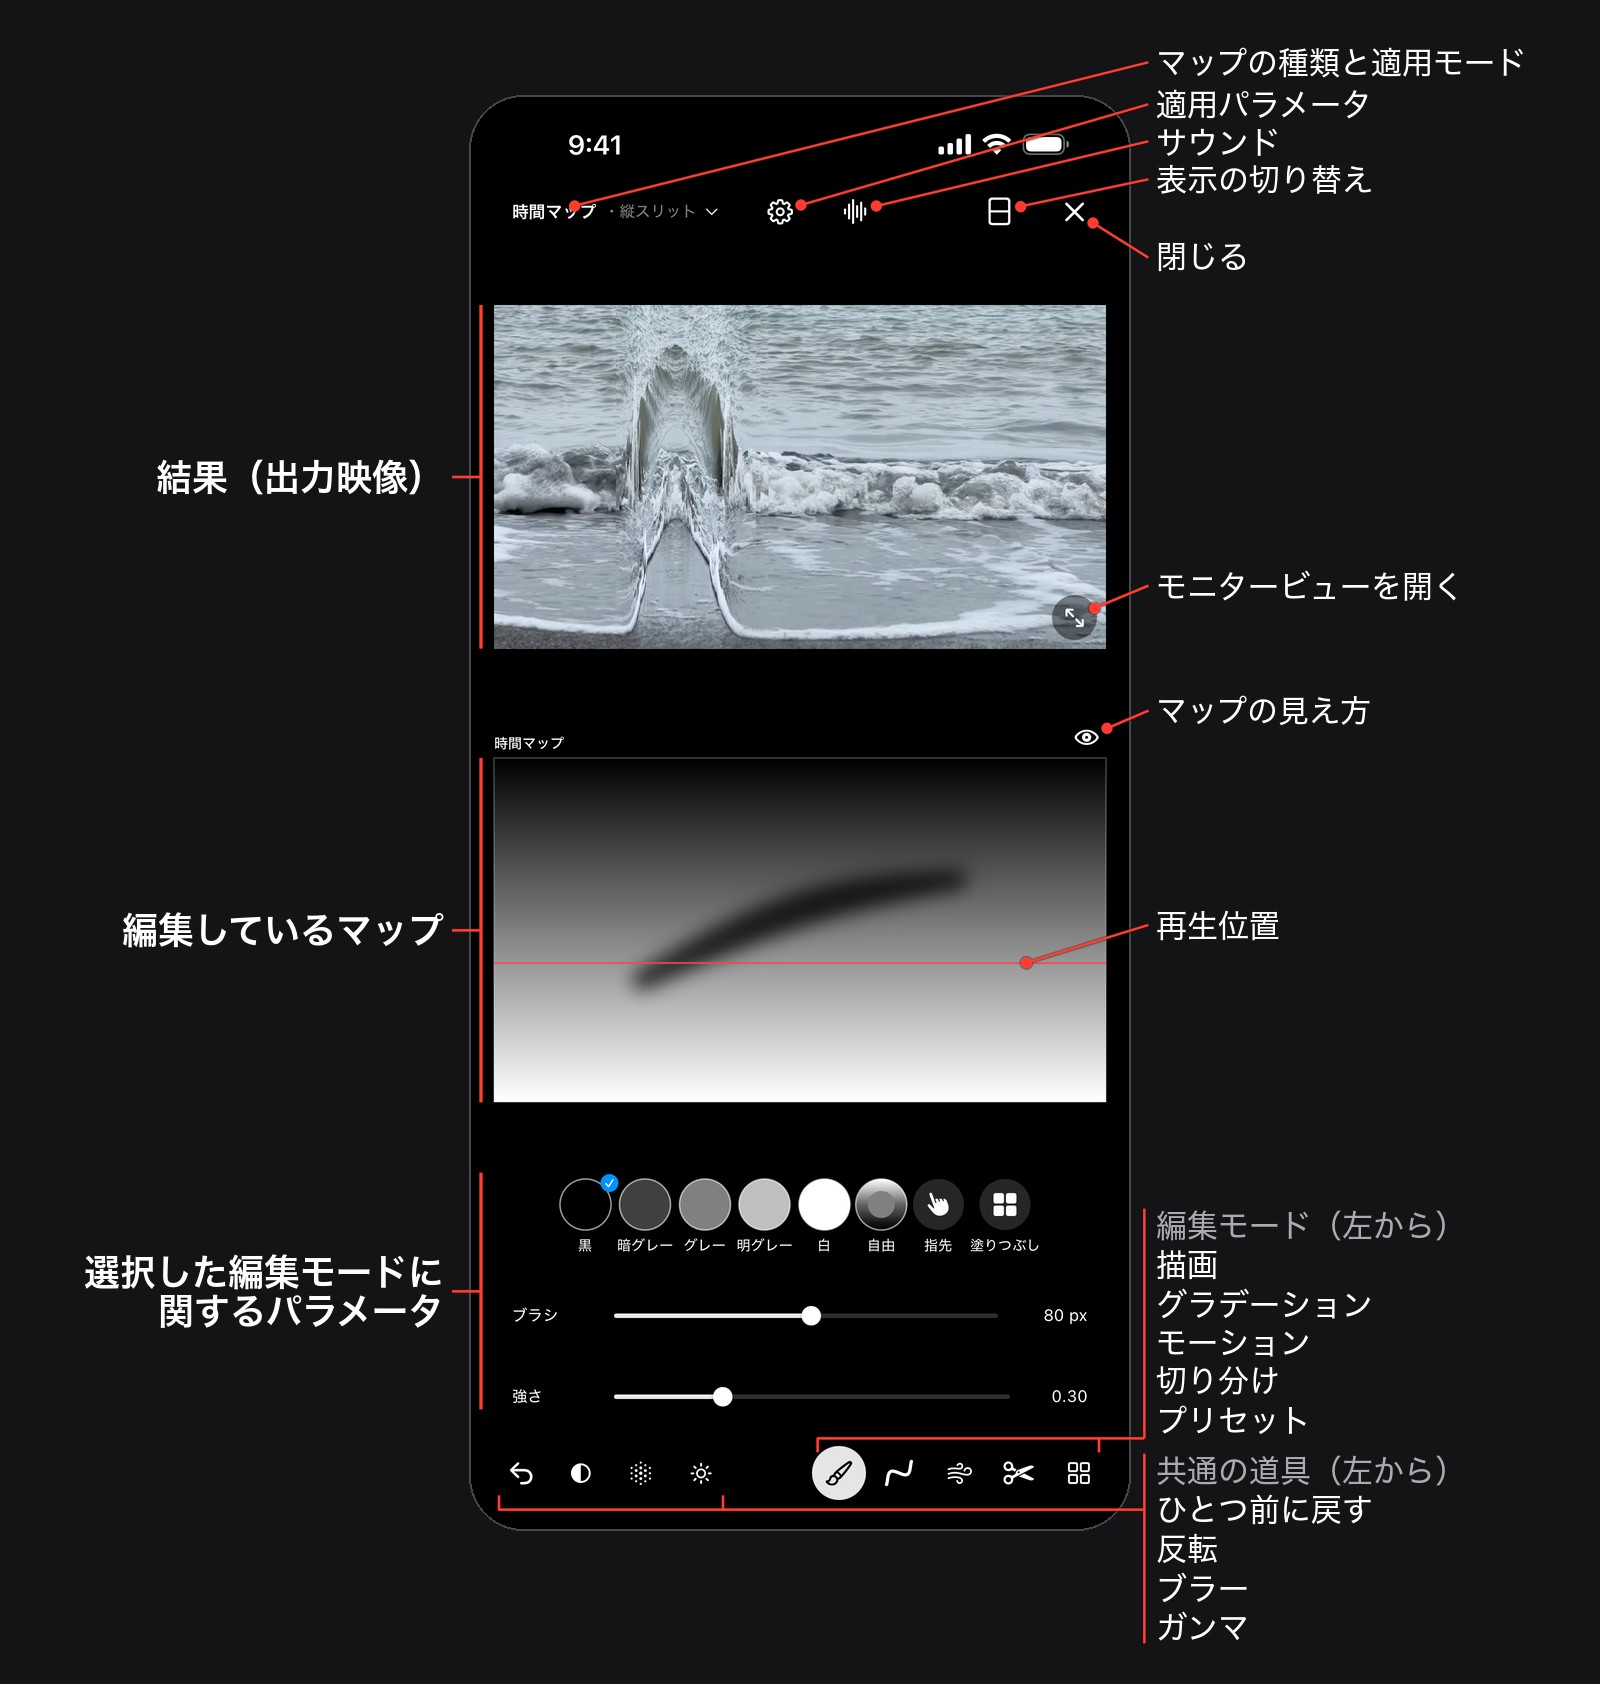
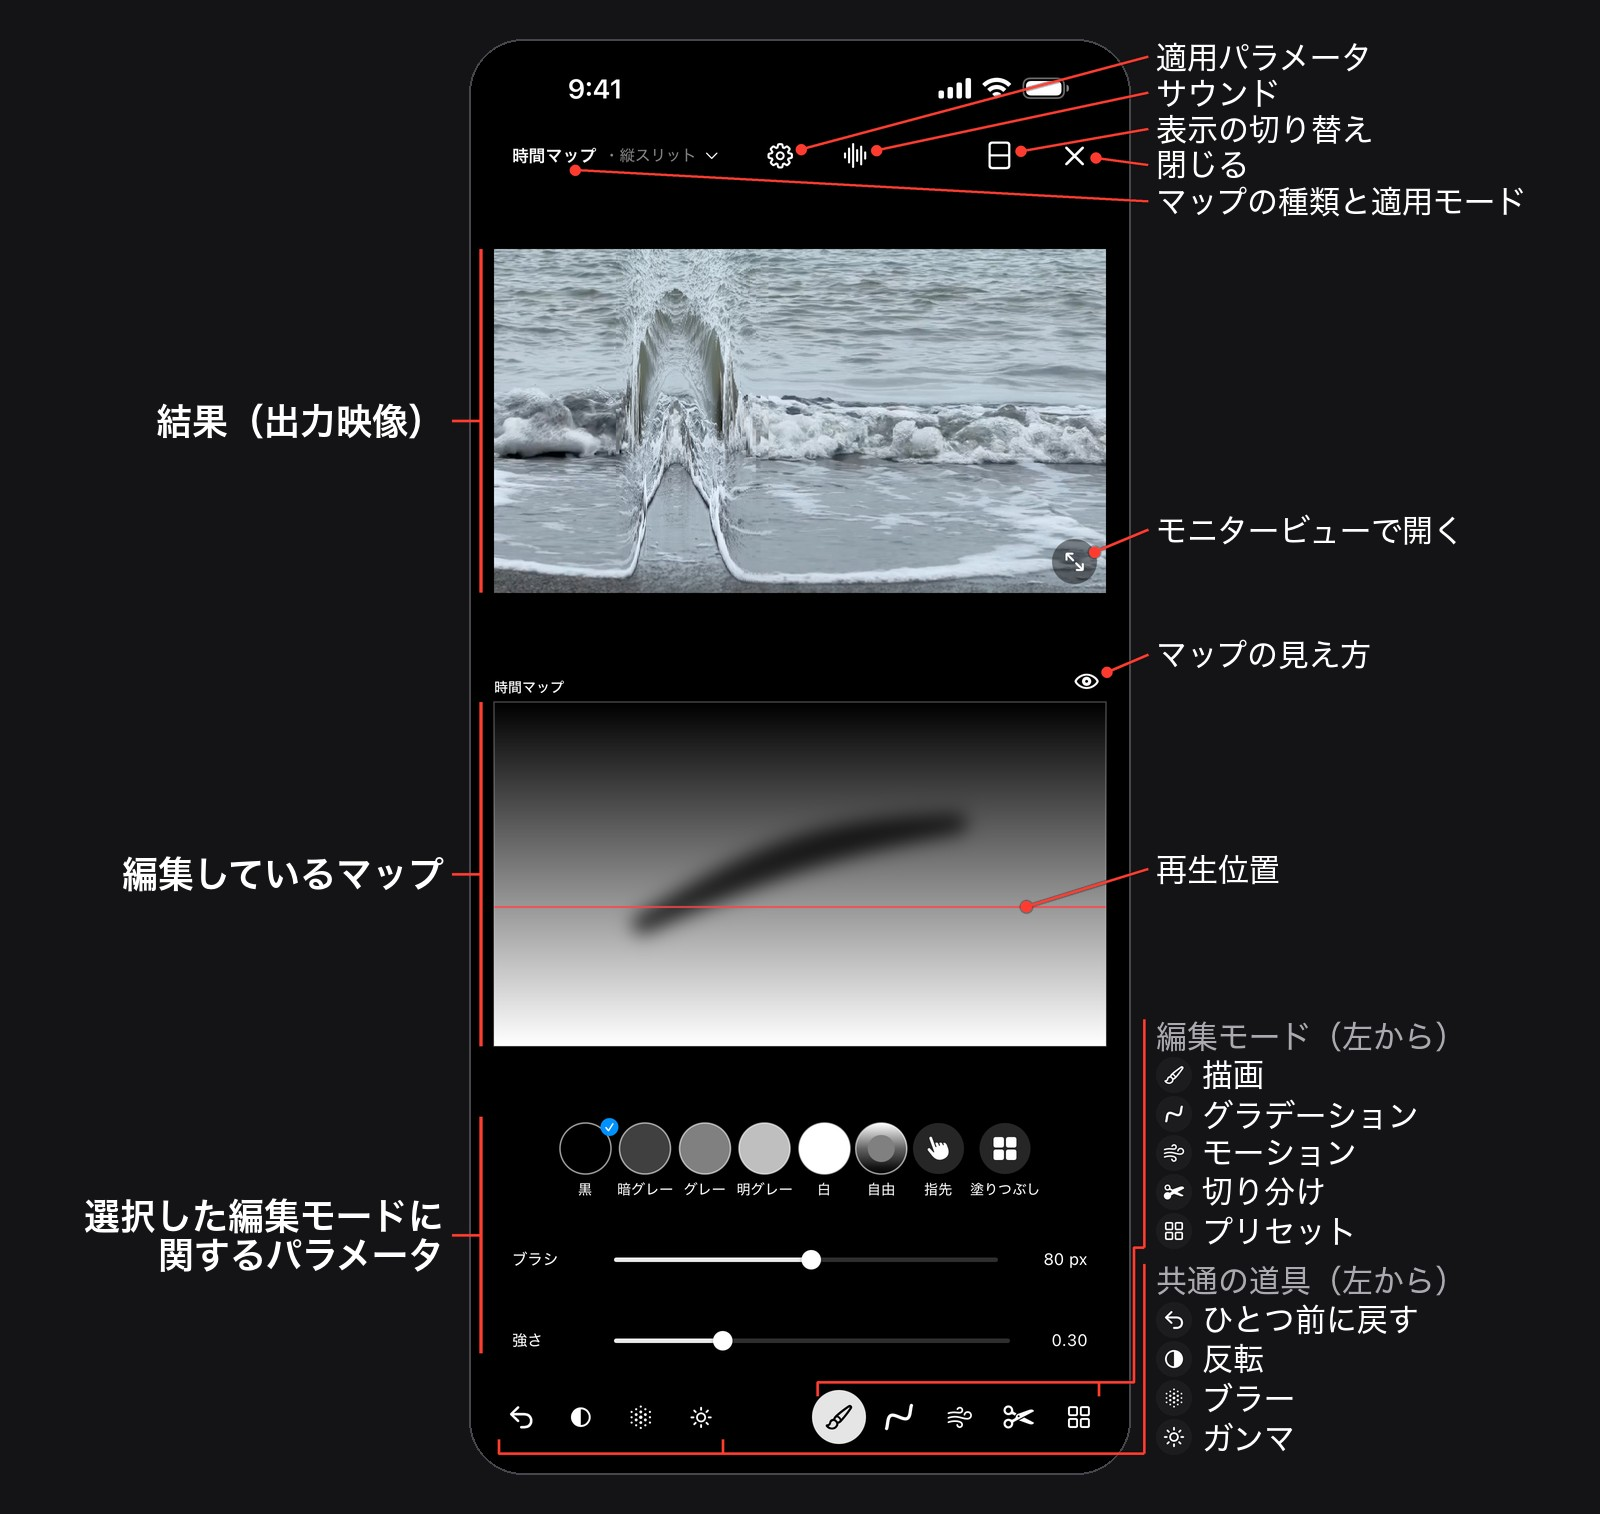
案内図を作り直す: 左に再生スライダーとメニューも、文字は iPhone の高さの中に、一覧の行頭にアイコン、モニタービューは 5 つすべてを並べる（配信後に公開）

diff --git a/index.html b/index.html
@@ -108,7 +108,7 @@
   
 
 
-<figure class="guide"><a href="shots/guide/monitor_ja.jpg"><img src="shots/guide/monitor_ja.jpg" alt="モニタービューの各部の名前を赤い線で示した図。出力映像、時間マップ、立体グラフを並べている" loading="lazy"></a><figcaption>モニタービュー（押すと大きく開きます）</figcaption></figure>
+<figure class="guide"><a href="shots/guide/monitor_ja.jpg"><img src="shots/guide/monitor_ja.jpg" alt="モニタービューのボタンの名前を赤い線で示した図。入力映像、時間マップ、出力映像、立体グラフ、時間グラフをすべて並べている" loading="lazy"></a><figcaption>モニタービュー（押すと大きく開きます）</figcaption></figure>
 <div class="gallery">
   <figure><img src="shots/v15/ja/input_full.png" alt="入力映像の全画面表示。下に読み込みの情報、使用範囲のバー、秒数が並ぶ" loading="lazy"><figcaption>入力の全画面。情報をタップすると読み込みの設定が開きます</figcaption></figure>
   <figure><img src="shots/v16/ja/volume.png" alt="出力の全画面で立体グラフをオンにしたところ。上に出力映像、下に素材の箱の中で斜めに傾いた面と秒数の目盛り" loading="lazy"><figcaption>立体グラフ。縦スリット×時間マップの「左→右」では、左ほど前の瞬間を映すので面が斜めに傾きます</figcaption></figure>
@@ -538,7 +538,7 @@ Pro Max and iPad) a button at the bottom right of each pane shows that one alone
 Output and the 3D plot in the editor opens it too, and <strong>Back</strong> returns to the editor. The Monitor view is for looking
 only: export from <strong>Export</strong> on the main screen.
 </p>
-<figure class="guide"><a href="shots/guide/monitor_en.jpg"><img src="shots/guide/monitor_en.jpg" alt="The Monitor view with each part named by red lines: the output video, the time map and the 3D plot side by side" loading="lazy"></a><figcaption>The Monitor view (tap to enlarge)</figcaption></figure>
+<figure class="guide"><a href="shots/guide/monitor_en.jpg"><img src="shots/guide/monitor_en.jpg" alt="The Monitor view with its buttons named by red lines, showing all of the input video, the time map, the output video, the 3D plot and the time graph" loading="lazy"></a><figcaption>The Monitor view (tap to enlarge)</figcaption></figure>
 <div class="gallery">
   <figure><img src="shots/v15/en/input_full.png" alt="Full-screen Input with the loading information line, the range bar and the seconds in use" loading="lazy"><figcaption>Full-screen Input: tap the information line to open Video Loading</figcaption></figure>
 </div>
